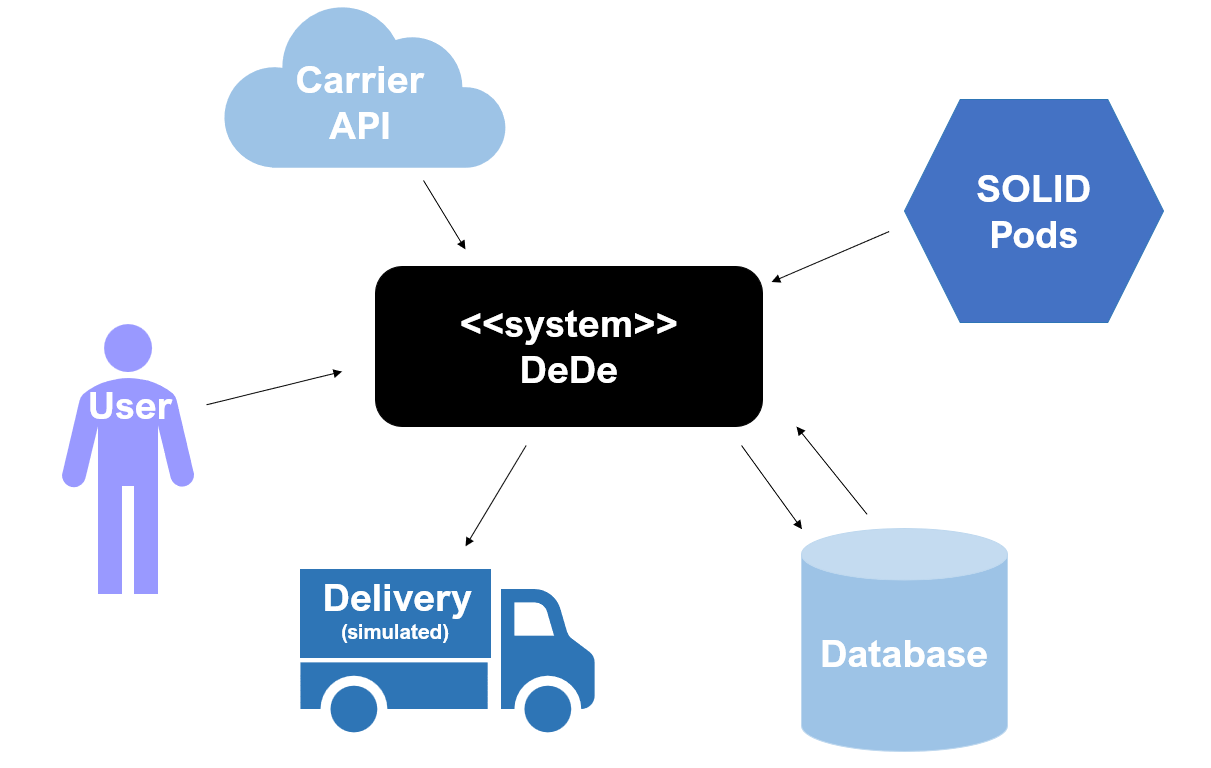
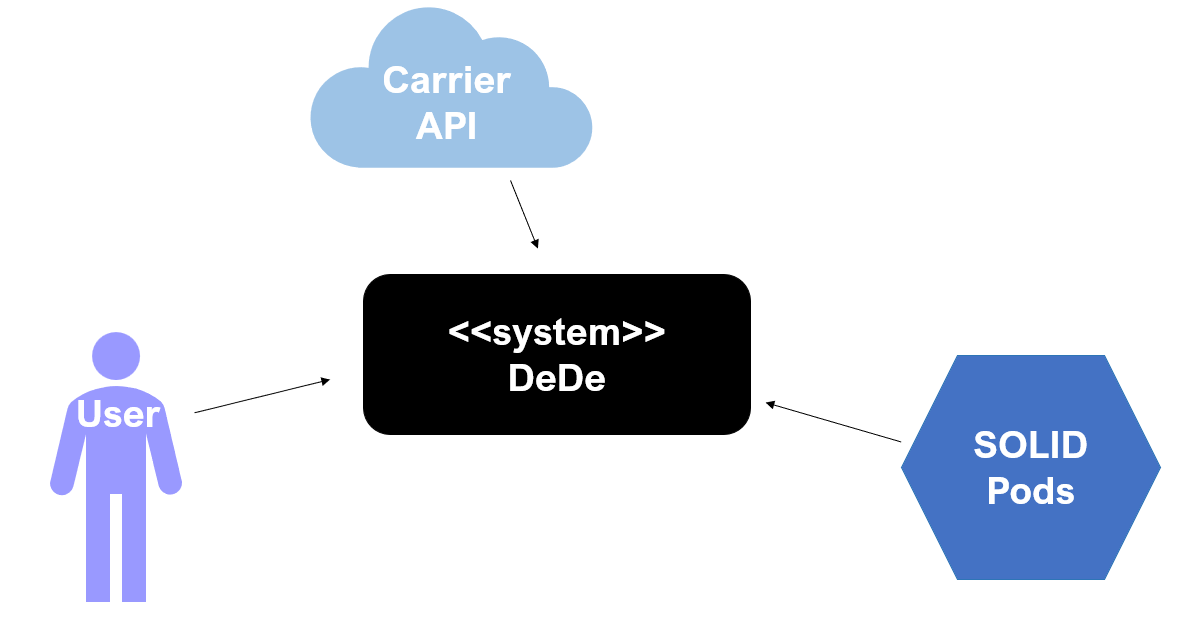
Updates

diff --git a/index.html b/index.html
@@ -472,7 +472,9 @@ body.book #toc,body.book #preamble,body.book h1.sect0,body.book .sect1>h2{page-b
 <li><a href="#section-building-block-view">5. Building Block View</a>
 <ul class="sectlevel2">
 <li><a href="#_whitebox_overall_system">5.1. Whitebox Overall System</a></li>
-<li><a href="#_level_2">5.2. Level 2</a></li>
+<li><a href="#_scope_and_context">5.2. Scope and context</a></li>
+<li><a href="#_level_1">5.3. Level 1</a></li>
+<li><a href="#_level_2">5.4. Level 2</a></li>
 </ul>
 </li>
 <li><a href="#section-runtime-view">6. Runtime View</a>
@@ -601,21 +603,66 @@ If requirements documents exist this overview should refer to these documents.</
 <ul>
 <li>
 <p>Emulation of an online shopping system where the user can select and order products.</p>
+<div class="ulist">
+<ul>
+<li>
+<p>Like any other web app but in a reduced way.</p>
+</li>
+</ul>
+</div>
 </li>
 <li>
 <p>Calculation of the delivery cost based on the address of the user in their Pod.</p>
+<div class="ulist">
+<ul>
+<li>
+<p>The cost is based on an external API.</p>
+</li>
+</ul>
+</div>
 </li>
 <li>
 <p>Simulation of the process of buying a product.</p>
+<div class="ulist">
+<ul>
+<li>
+<p>The user can buy a product and add it to the shopping cart.</p>
+</li>
+<li>
+<p>There is a list of products for the user to buy.</p>
+</li>
+</ul>
+</div>
 </li>
 <li>
 <p>Allowing the user to access the orders previously done.</p>
+<div class="ulist">
+<ul>
+<li>
+<p>Like checking the search history in your browser.</p>
+</li>
+</ul>
+</div>
 </li>
 <li>
 <p>Implementation using React and Typescript.</p>
+<div class="ulist">
+<ul>
+<li>
+<p>This will be for the front-end, for the back-end we will use other frameworks such as SpringBoot.</p>
+</li>
+</ul>
+</div>
 </li>
 <li>
-<p>The aplication should be accessible and deployed using a continuous integration system. That means having a hosting service in which we can access the service</p>
+<p>The aplication should be accessible and deployed using a continuous integration system.</p>
+<div class="ulist">
+<ul>
+<li>
+<p>That means having a hosting service in which we can access the service.</p>
+</li>
+</ul>
+</div>
 </li>
 </ul>
 </div>
@@ -927,21 +974,12 @@ The title of the table is the name of your system, the three columns contain the
 <td class="tableblock halign-left valign-top"><p class="tableblock">Interacts with system by viewing, selecting and buying products. Users have an account in the system that lets them visualize orders done.</p></td>
 </tr>
 <tr>
-<td class="tableblock halign-left valign-top"><p class="tableblock">Database</p></td>
-<td class="tableblock halign-left valign-top"><p class="tableblock">Stores information about users, products and orders. The system reads data from it and writes new one.</p></td>
-</tr>
-<tr>
 <td class="tableblock halign-left valign-top"><p class="tableblock">SOLID pods</p></td>
 <td class="tableblock halign-left valign-top"><p class="tableblock">They have information about client&#8217;s addresses. The system obtains this information to calculate shipping costs and process orders.</p></td>
 </tr>
 <tr>
 <td class="tableblock halign-left valign-top"><p class="tableblock">Carrier API</p></td>
 <td class="tableblock halign-left valign-top"><p class="tableblock">DeDe uses them to obtain shipping costs from one address to another one.</p></td>
-</tr>
-<tr>
-<td class="tableblock halign-left valign-top"><p class="tableblock">Delivery</p></td>
-<td class="tableblock halign-left valign-top"><p class="tableblock">With all the information collected from the user, the database, carrier APIs and SOLID pods and once everything is processed, an order delivery is simulated.
-                 In a real scenario, the orders would be shipped to their corresponding addresses.</p></td>
 </tr>
 </tbody>
 </table>
@@ -1158,8 +1196,8 @@ Depending on your choice of tool this list could be sub-chapters (in text files)
 <li>
 <p>(optional:) important interfaces, that are not explained in the black box templates of a building block, but are very important for understanding the white box.
 Since there are so many ways to specify interfaces why do not provide a specific template for them.
- In the worst case you have to specify and describe syntax, semantics, protocols, error handling,
- restrictions, versions, qualities, necessary compatibilities and many things more.
+In the worst case you have to specify and describe syntax, semantics, protocols, error handling,
+restrictions, versions, qualities, necessary compatibilities and many things more.
 In the best case you will get away with examples or simple signatures.</p>
 </li>
 </ul>
@@ -1167,40 +1205,38 @@ In the best case you will get away with examples or simple signatures.</p>
 </div>
 </div>
 <div class="paragraph">
-<p><span class="image"><img src="./images/buildingblock_level1.png" alt="Building block level 1"></span></p>
+<p><span class="image"><img src="./images/05_building_blocks_complete.png" alt="Building block level 1"></span></p>
 </div>
+</div>
+<div class="sect2">
+<h3 id="_scope_and_context">5.2. Scope and context</h3>
 <div class="dlist">
 <dl>
 <dt class="hdlist1">Motivation</dt>
 <dd>
-<p>The user creates and interacts with its own Pod and with de DeDe system. The DeDe system has access to the user&#8217;s pod and to the database.</p>
+<p>The user creates and interacts with its own Pod and with de DeDe system. The DeDe system has access to the user&#8217;s pod.</p>
 </dd>
-<dt class="hdlist1">Contained Building Blocks</dt>
 </dl>
 </div>
 <table class="tableblock frame-all grid-all stretch">
 <colgroup>
-<col style="width: 33.3333%;">
-<col style="width: 66.6667%;">
+<col style="width: 50%;">
+<col style="width: 50%;">
 </colgroup>
 <thead>
 <tr>
-<th class="tableblock halign-left valign-top"><strong>Name</strong></th>
-<th class="tableblock halign-left valign-top"><strong>Responsibility</strong></th>
+<th class="tableblock halign-left valign-top">Building block</th>
+<th class="tableblock halign-left valign-top">Description</th>
 </tr>
 </thead>
 <tbody>
 <tr>
 <td class="tableblock halign-left valign-top"><p class="tableblock"><em>DeDe</em></p></td>
-<td class="tableblock halign-left valign-top"><p class="tableblock"> Online retail system that preserves the privacy of its users by following the SOLID principles.</p></td>
+<td class="tableblock halign-left valign-top"><p class="tableblock">Online retail system that preserves the privacy of its users by following the SOLID principles.</p></td>
 </tr>
 <tr>
 <td class="tableblock halign-left valign-top"><p class="tableblock"><em>User&#8217;s Pod</em></p></td>
-<td class="tableblock halign-left valign-top"><p class="tableblock"> The user&#8217;s Pod is where the user stores its data to control it.</p></td>
-</tr>
-<tr>
-<td class="tableblock halign-left valign-top"><p class="tableblock"><em>Database</em></p></td>
-<td class="tableblock halign-left valign-top"><p class="tableblock">Database used by the DeDe system to store the needed information, such as the orders done, the addresses, etc.</p></td>
+<td class="tableblock halign-left valign-top"><p class="tableblock">The user&#8217;s Pod is where the user stores its data to control it.</p></td>
 </tr>
 <tr>
 <td class="tableblock halign-left valign-top"><p class="tableblock"><em>User</em></p></td>
@@ -1216,65 +1252,16 @@ In the best case you will get away with examples or simple signatures.</p>
 </dd>
 </dl>
 </div>
-<div class="sidebarblock arc42help">
-<div class="content">
-<div class="paragraph">
-<p>Insert your explanations of black boxes from level 1:</p>
-</div>
-<div class="paragraph">
-<p>If you use tabular form you will only describe your black boxes with name and
-responsibility according to the following schema:</p>
-</div>
-<table class="tableblock frame-all grid-all stretch">
-<colgroup>
-<col style="width: 33.3333%;">
-<col style="width: 66.6667%;">
-</colgroup>
-<thead>
-<tr>
-<th class="tableblock halign-left valign-top"><strong>Name</strong></th>
-<th class="tableblock halign-left valign-top"><strong>Responsibility</strong></th>
-</tr>
-</thead>
-<tbody>
-<tr>
-<td class="tableblock halign-left valign-top"><p class="tableblock"><em>&lt;black box 1&gt;</em></p></td>
-<td class="tableblock halign-left valign-top"><p class="tableblock"> <em>&lt;Text&gt;</em></p></td>
-</tr>
-<tr>
-<td class="tableblock halign-left valign-top"><p class="tableblock"><em>&lt;black box 2&gt;</em></p></td>
-<td class="tableblock halign-left valign-top"><p class="tableblock"> <em>&lt;Text&gt;</em></p></td>
-</tr>
-</tbody>
-</table>
-</div>
-</div>
 </div>
 <div class="sect2">
-<h3 id="_level_2">5.2. Level 2</h3>
-<div class="sidebarblock arc42help">
-<div class="content">
-<div class="paragraph">
-<p>Here you can specify the inner structure of (some) building blocks from level 1 as white boxes.</p>
-</div>
-<div class="paragraph">
-<p>You have to decide which building blocks of your system are important enough to justify such a detailed description.
-Please prefer relevance over completeness. Specify important, surprising, risky, complex or volatile building blocks.
-Leave out normal, simple, boring or standardized parts of your system</p>
-</div>
-</div>
-</div>
-<div class="sect3">
-<h4 id="_white_box_dede_system">5.2.1. White Box DeDe System</h4>
-<div class="sidebarblock arc42help">
-<div class="content">
-<div class="paragraph">
-<p>&#8230;&#8203;describes the internal structure of <em>DeDe System</em>.</p>
-</div>
-</div>
-</div>
-<div class="paragraph">
-<p><span class="image"><img src="./images/buildingblock_level2.png" alt="Building block level 2"></span></p>
+<h3 id="_level_1">5.3. Level 1</h3>
+<div class="dlist">
+<dl>
+<dt class="hdlist1">Motivation</dt>
+<dd>
+<p>The DeDe system is expanded in order to give more details about its internal implementation</p>
+</dd>
+</dl>
 </div>
 <table class="tableblock frame-all grid-all stretch">
 <colgroup>
@@ -1289,22 +1276,58 @@ Leave out normal, simple, boring or standardized parts of your system</p>
 </thead>
 <tbody>
 <tr>
-<td class="tableblock halign-left valign-top"><p class="tableblock">Views</p></td>
-<td class="tableblock halign-left valign-top"><p class="tableblock">Contains all the user interfaces of the online shop. The user interacts with them to see and select products, visualize past orders&#8230;&#8203;</p></td>
+<td class="tableblock halign-left valign-top"><p class="tableblock"><em>Frontend</em></p></td>
+<td class="tableblock halign-left valign-top"><p class="tableblock">The part that is seen by the user when using the application.</p></td>
 </tr>
 <tr>
-<td class="tableblock halign-left valign-top"><p class="tableblock">Controller</p></td>
-<td class="tableblock halign-left valign-top"><p class="tableblock">Responds to user events in the views by invoking corresponding actions in the model. It is an intermediary.</p></td>
+<td class="tableblock halign-left valign-top"><p class="tableblock"><em>Backend</em></p></td>
+<td class="tableblock halign-left valign-top"><p class="tableblock">The part of the application that deals with its logic and communicates with the database.</p></td>
 </tr>
 <tr>
-<td class="tableblock halign-left valign-top"><p class="tableblock">Model</p></td>
+<td class="tableblock halign-left valign-top"><p class="tableblock"><em>Database</em></p></td>
+<td class="tableblock halign-left valign-top"><p class="tableblock">Database used by the DeDe system to store the needed information, such as the orders done, the addresses, etc. In our case we will use a MySQL database.</p></td>
+</tr>
+</tbody>
+</table>
+</div>
+<div class="sect2">
+<h3 id="_level_2">5.4. Level 2</h3>
+<div class="dlist">
+<dl>
+<dt class="hdlist1">Motivation</dt>
+<dd>
+<p>The frontend and the backend are expanded to give a further insight into its composition</p>
+</dd>
+</dl>
+</div>
+<table class="tableblock frame-all grid-all stretch">
+<colgroup>
+<col style="width: 50%;">
+<col style="width: 50%;">
+</colgroup>
+<thead>
+<tr>
+<th class="tableblock halign-left valign-top">Building block</th>
+<th class="tableblock halign-left valign-top">Description</th>
+</tr>
+</thead>
+<tbody>
+<tr>
+<td class="tableblock halign-left valign-top"><p class="tableblock"><em>Views (GUI)</em></p></td>
+<td class="tableblock halign-left valign-top"><p class="tableblock">Contains all the user interfaces of the online shop. The user interacts with them to see and select products, visualize past orders and confirm the purchase, among others.</p></td>
+</tr>
+<tr>
+<td class="tableblock halign-left valign-top"><p class="tableblock"><em>Controller (RestAPI)</em></p></td>
+<td class="tableblock halign-left valign-top"><p class="tableblock">It is implemented following the RestAPI architecture. Responds to user events in the views by invoking corresponding actions in the model. It is an intermediary.</p></td>
+</tr>
+<tr>
+<td class="tableblock halign-left valign-top"><p class="tableblock"><em>Model</em></p></td>
 <td class="tableblock halign-left valign-top"><p class="tableblock">Implements all the business logic needed. Accesses the database to retrieve products and clients and to register orders.
-  Besides, it obtains clients' addresses from their PODs.</p></td>
+Besides, it obtains clients' addresses from their PODs.</p></td>
 </tr>
 </tbody>
 </table>
 <div style="page-break-after: always;"></div>
-</div>
 </div>
 </div>
 </div>
@@ -1375,7 +1398,7 @@ You will mainly capture scenarios in your documentation to communicate your arch
 <p>The user will follow the next interaction diagram:</p>
 </div>
 <div class="paragraph">
-<p><span class="image"><img src="./images/06.1-userDiagram.png" alt="User&#8217;s interaction diagram"></span></p>
+<p><span class="image"><img src="./images/06.1.2-userDiagram.png" alt="User&#8217;s interaction diagram"></span></p>
 </div>
 </div>
 <div class="sect2">
@@ -1787,7 +1810,7 @@ concrete and measurable.</p>
 </tr>
 <tr>
 <td class="tableblock halign-left valign-top"><p class="tableblock">Performance</p></td>
-<td class="tableblock halign-left valign-top"><p class="tableblock">The users should be able to complete all the operations of the application in a reasonable amount of time (the response time of every operation might be different)</p></td>
+<td class="tableblock halign-left valign-top"><p class="tableblock">The users should be able to complete all the operations of the application in a reasonable amount of time (the response time of every operation might be different, but it should not surpass 3 seconds)</p></td>
 <td class="tableblock halign-left valign-top"><p class="tableblock">High</p></td>
 <td class="tableblock halign-left valign-top"><p class="tableblock">Medium</p></td>
 </tr>
@@ -1798,8 +1821,8 @@ concrete and measurable.</p>
 <td class="tableblock halign-left valign-top"><p class="tableblock">Easy</p></td>
 </tr>
 <tr>
-<td class="tableblock halign-left valign-top"><p class="tableblock">Accesibility</p></td>
-<td class="tableblock halign-left valign-top"><p class="tableblock">Users with disabilities should also be able to use the application. They should be provided several different alternatives for doing operations.</p></td>
+<td class="tableblock halign-left valign-top"><p class="tableblock">Accessibility</p></td>
+<td class="tableblock halign-left valign-top"><p class="tableblock">Users with disabilities should also be able to use the application. They should be provided several different alternatives for doing operations. We will aim for reaching the AA Web Accessibility Guidelines.</p></td>
 <td class="tableblock halign-left valign-top"><p class="tableblock">Medium</p></td>
 <td class="tableblock halign-left valign-top"><p class="tableblock">Medium</p></td>
 </tr>
